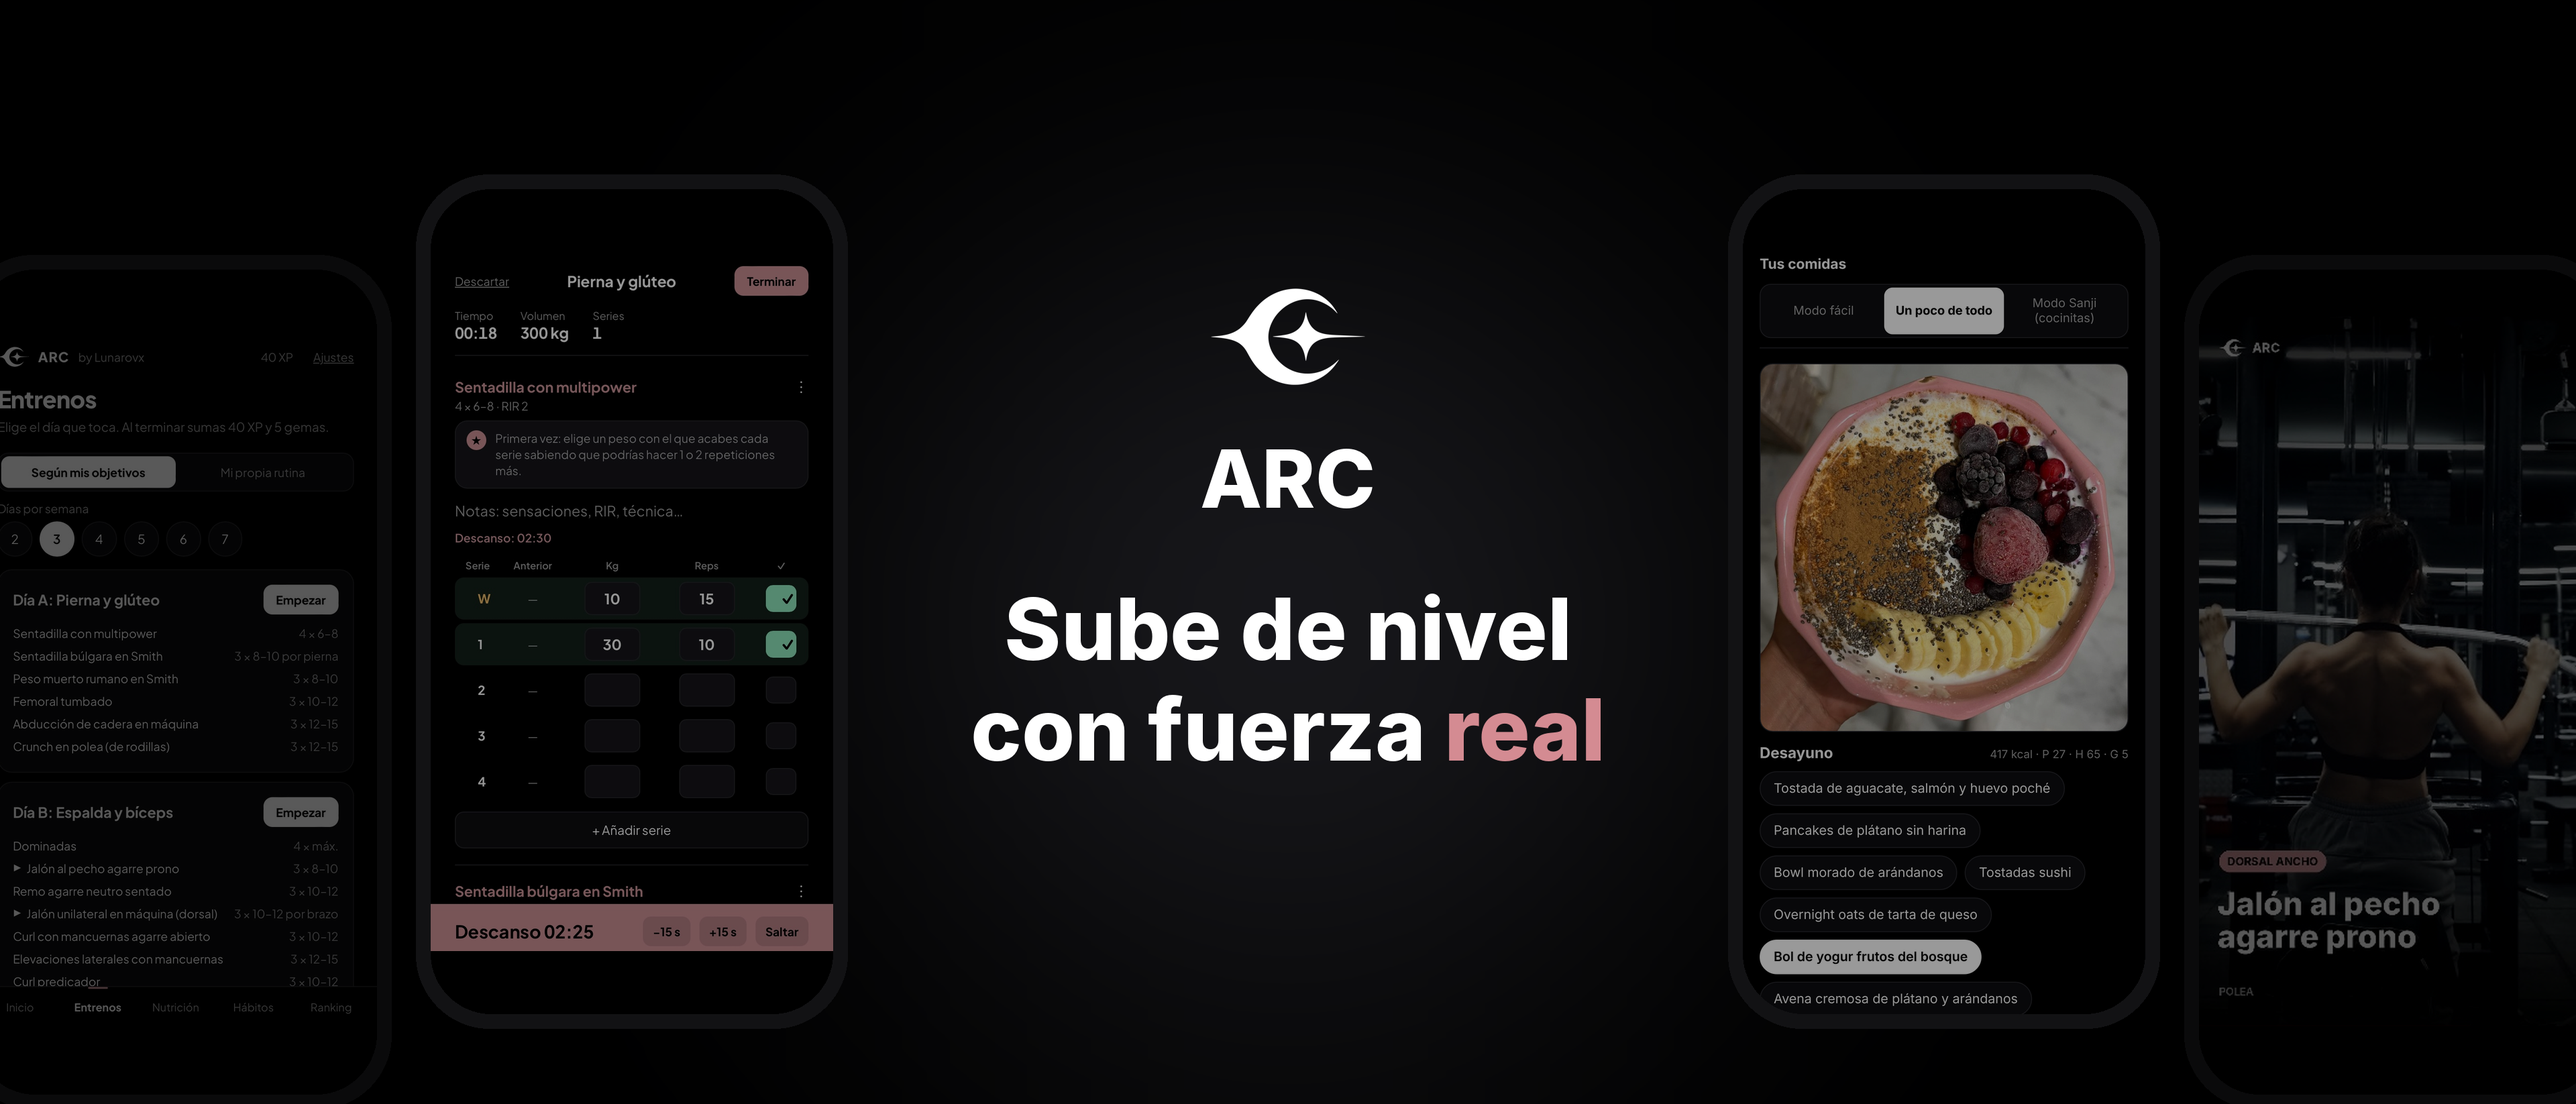
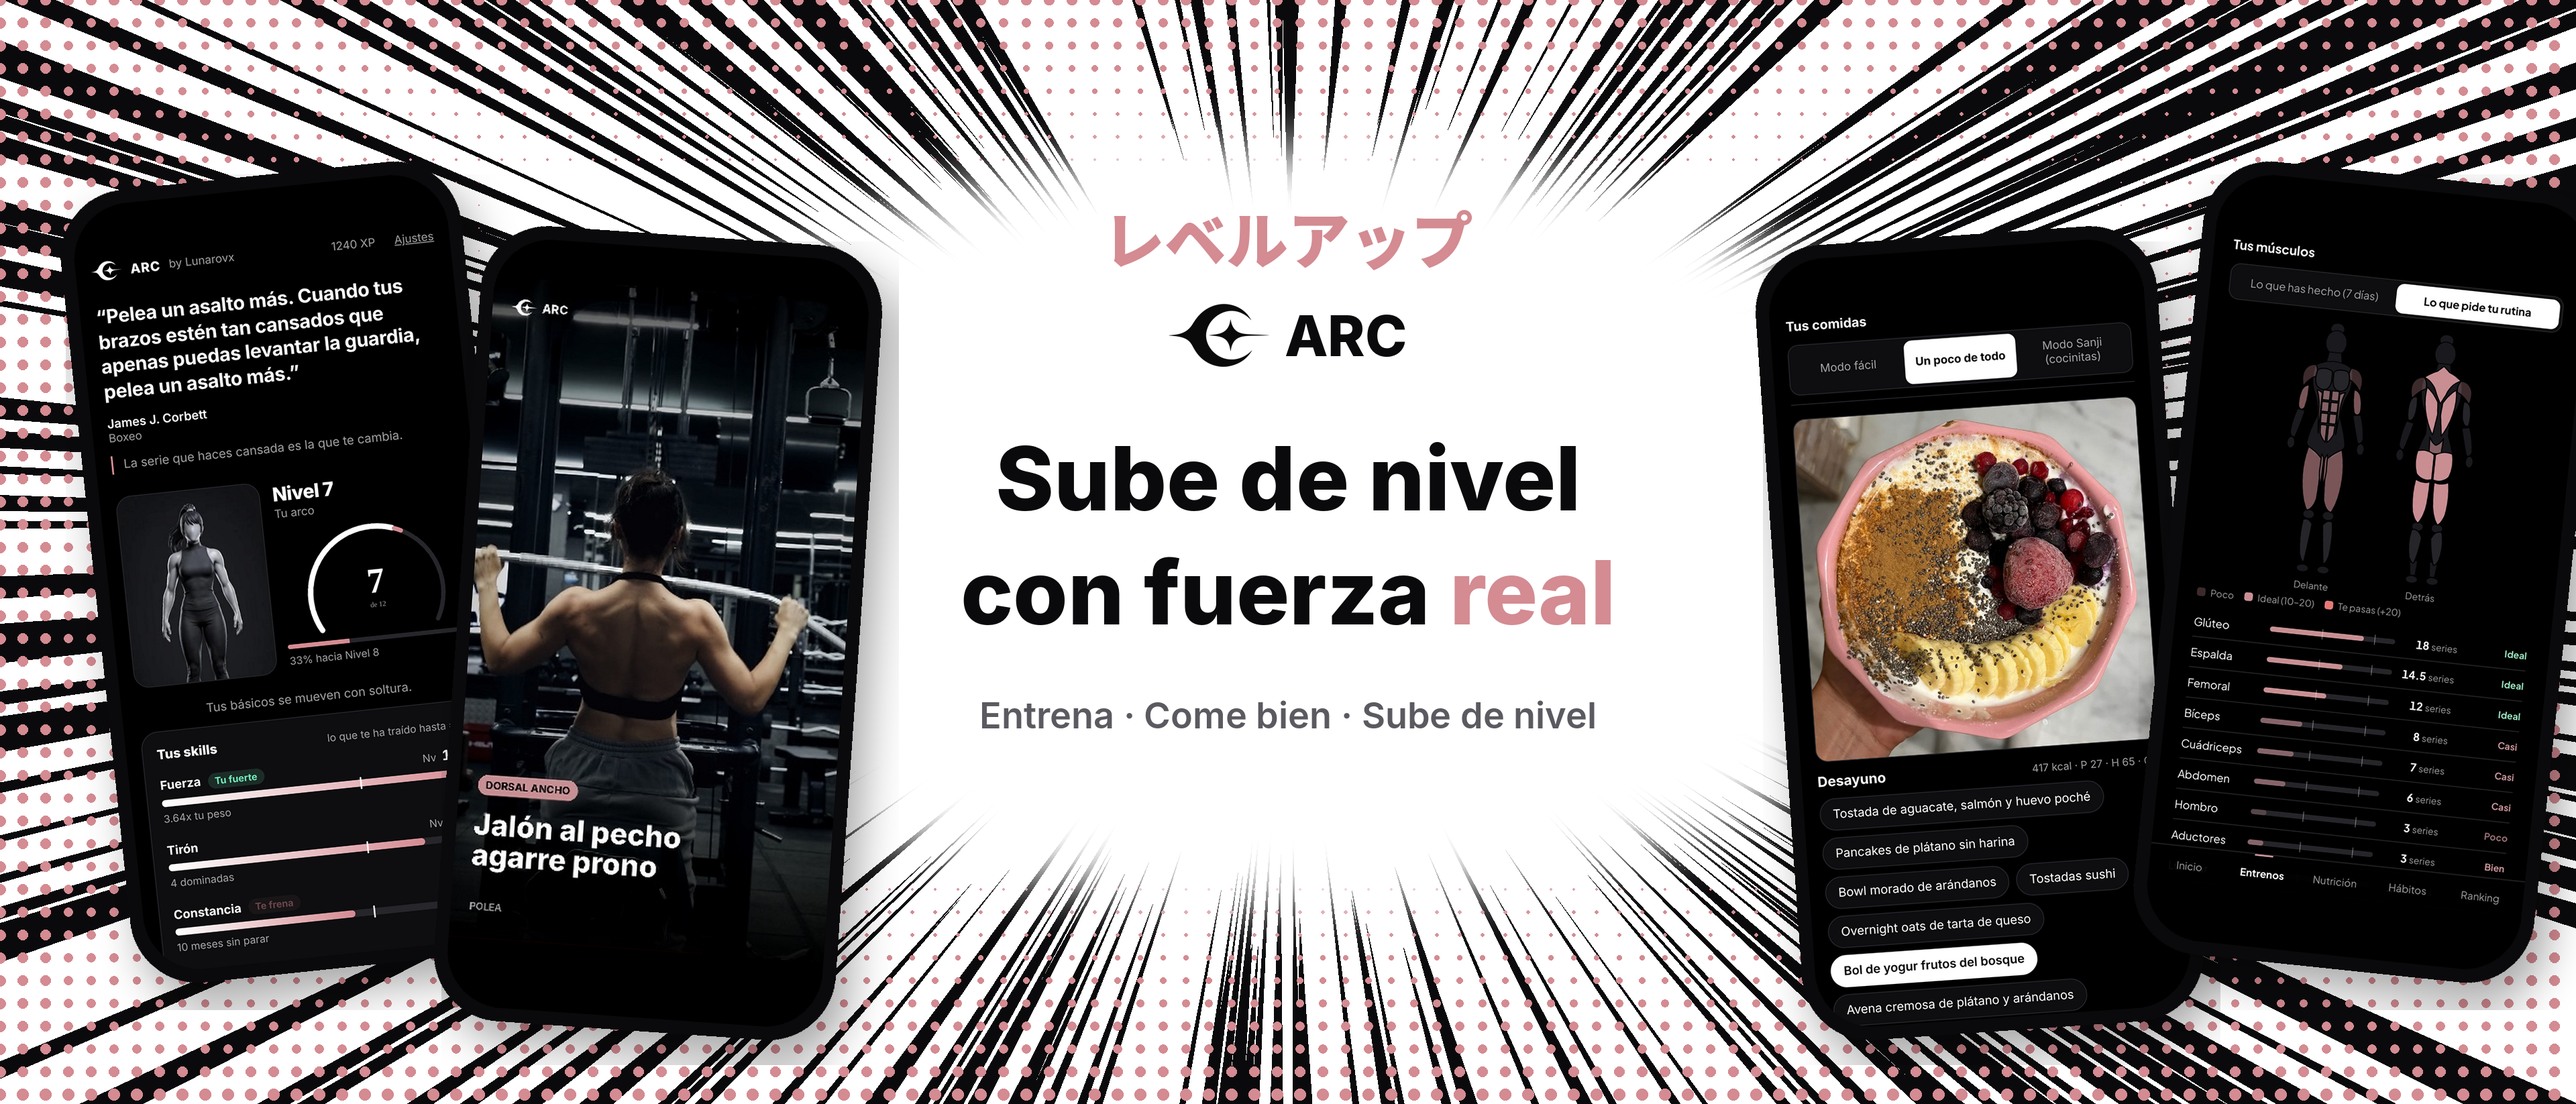
Cabecera estilo manga
Claude-Session: https://claude.ai/code/session_01YbzsCEJorLLnqfp1NVcty4

diff --git a/marketing/header3.py b/marketing/header3.py
@@ -1,0 +1,54 @@
+from PIL import Image, ImageDraw, ImageFont, ImageFilter, ImageOps
+import math, random
+random.seed(7)
+W,H=3840,1646; F="/usr/share/fonts/opentype/inter/"
+PINK=(212,139,146); BLACK=(10,10,12)
+c=Image.new("RGB",(W,H),(255,255,255)); d=ImageDraw.Draw(c)
+cx,cy=W//2,H//2-40
+# líneas de velocidad estilo manga
+for i in range(260):
+    a=random.uniform(0,2*math.pi); w=random.uniform(0.004,0.016); r0=random.uniform(700,1050)
+    r1=3000
+    p=[(cx+r0*math.cos(a),cy+r0*0.62*math.sin(a)),(cx+r1*math.cos(a-w),cy+r1*0.62*math.sin(a-w)),(cx+r1*math.cos(a+w),cy+r1*0.62*math.sin(a+w))]
+    d.polygon(p,fill=BLACK)
+# trama de puntos rosa (halftone) en las esquinas
+dots=Image.new("RGBA",(W,H),(0,0,0,0)); dd=ImageDraw.Draw(dots)
+for y in range(0,H,34):
+    for x in range(0,W,34):
+        k=max(abs(x-cx)/(W/2),abs(y-cy)/(H/2))
+        rr=max(0,(k-0.6))*20
+        if rr>0.5: dd.ellipse((x-rr,y-rr,x+rr,y+rr),fill=PINK+(255,))
+c.paste(dots,(0,0),dots)
+# óvalo blanco central limpio
+m=Image.new("L",(W,H),0); ImageDraw.Draw(m).ellipse((cx-1050,cy-560,cx+1050,cy+560),fill=255); m=m.filter(ImageFilter.GaussianBlur(40))
+c.paste(Image.new("RGB",(W,H),(255,255,255)),(0,0),m)
+d=ImageDraw.Draw(c)
+# móviles reales a los lados, a todo brillo
+def rounded(im,r):
+    mm=Image.new("L",im.size,0); ImageDraw.Draw(mm).rounded_rectangle((0,0,im.size[0]-1,im.size[1]-1),r,fill=255); return mm
+def phone(src,crop=None,w=560):
+    img=Image.open("raw/"+src).convert("RGB")
+    if crop: img=img.crop(crop)
+    sh=int(w*2.05); img=img.resize((w,int(img.size[1]*w/img.size[0])),Image.LANCZOS)
+    scr=Image.new("RGB",(w,sh),(0,0,0)); scr.paste(img,(0,60))
+    b=20; ph=Image.new("RGB",(w+2*b,sh+2*b),BLACK); ph.paste(scr,(b,b),rounded(scr,84)); return ph
+for (s,cr),x,y,rot in [(("inicio-sin-personajes.png",None),80,230,6),(("video-tecnica.jpg",(270,232,625,858)),640,330,-4),(("nutricion.png",None),2610,330,4),(("mapa-muscular.jpg",None),3170,230,-6)]:
+    p=phone(s,cr).convert("RGBA"); p.putalpha(rounded(p,100)); p=p.rotate(rot,resample=Image.BICUBIC,expand=True)
+    sh=Image.new("RGBA",p.size,(0,0,0,0)); sh.putalpha(p.getchannel("A").point(lambda v:int(v*0.35))); sh=sh.filter(ImageFilter.GaussianBlur(30))
+    c.paste((0,0,0),(x+18,y+30),sh); c.paste(p,(x,y),p)
+# texto central
+jp=ImageFont.truetype("/usr/share/fonts/opentype/noto/NotoSansCJK-Black.ttc",92,index=0)
+d.text((cx,cy-430),"レベルアップ",font=jp,fill=PINK,anchor="mm")
+logo=Image.open("raw/logo-mark.png").convert("RGBA"); lw=150; logo=logo.resize((lw,int(logo.size[1]*lw/logo.size[0])))
+logo=Image.merge("RGBA",(*[Image.new("L",logo.size,10)]*3,logo.getchannel("A")))
+fB=ImageFont.truetype(F+"Inter-ExtraBold.otf",84); tw=d.textlength("ARC",font=fB)
+lx=cx-(lw+22+tw)/2; c.paste(logo,(int(lx),cy-330),logo); d.text((lx+lw+22,cy-330+logo.size[1]/2),"ARC",font=fB,fill=BLACK,anchor="lm")
+fH=ImageFont.truetype(F+"Inter-ExtraBold.otf",132)
+d.text((cx,cy-150),"Sube de nivel",font=fH,fill=BLACK,anchor="ma")
+w1=d.textlength("con fuerza ",font=fH); w2=d.textlength("real",font=fH); x=cx-(w1+w2)/2
+d.text((x,cy+20),"con fuerza ",font=fH,fill=BLACK); d.text((x+w1,cy+20),"real",font=fH,fill=PINK)
+fS=ImageFont.truetype(F+"Inter-SemiBold.otf",54)
+d.text((cx,cy+250),"Entrena · Come bien · Sube de nivel",font=fS,fill=(90,90,96),anchor="ma")
+c.save("header_3840x1646.png")
+c.resize((1280,549)).save("/tmp/claude-0/-home-claude/3bae07ba-c8c3-5f0e-adb3-78f0953fb194/scratchpad/header3.png")
+cw=1700; c.crop((cx-cw//2,0,cx+cw//2,H)).resize((560,542)).save("/tmp/claude-0/-home-claude/3bae07ba-c8c3-5f0e-adb3-78f0953fb194/scratchpad/header3_crop.png")
